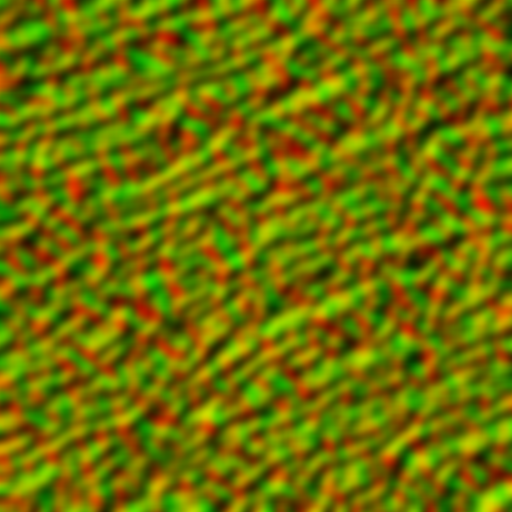
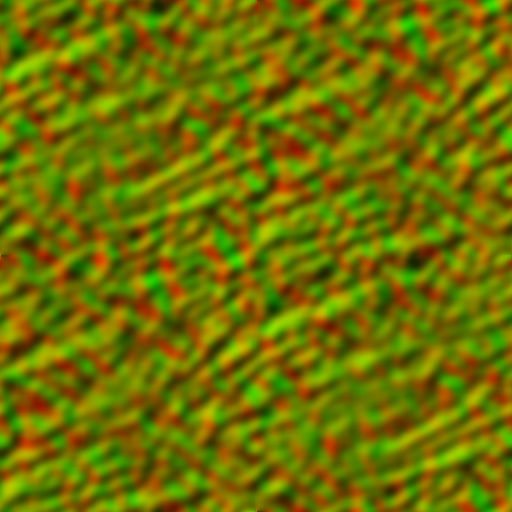
Add normal map , fix camera problem, finish water

diff --git a/src/Water/Water.cpp b/src/Water/Water.cpp
@@ -108,7 +108,12 @@ namespace CG
 		ReflectionTextureID = glGetUniformLocation(program, "reflectionTexture");
 		RefractionTextureID = glGetUniformLocation(program, "refractionTexture");
 		dudvMapID = glGetUniformLocation(program, "dudvMap");
+		normalID = glGetUniformLocation(program, "normalMap");
 		moveFactorID = glGetUniformLocation(program, "moveFactor");
+		cameraPositionID = glGetUniformLocation(program, "cameraPosition");
+		lightPosID = glGetUniformLocation(program, "lightPos");
+		enableWaveID = glGetUniformLocation(program, "enableWave");
+		enableLightReflectionID = glGetUniformLocation(program, "enableLightReflection");
 
 		//UBO
 		glGenBuffers(1, &UBO);
@@ -146,6 +151,30 @@ namespace CG
 			stbi_image_free(data);
 		}
 
+		path = "../../res/Water/normalMap.png";
+		data = stbi_load(path.c_str(), &width, &height, &nrChannels, STBI_rgb_alpha);
+		if (data)
+		{
+			std::cout << "load water texture: " << path << std::endl;
+			stbi_set_flip_vertically_on_load(false);
+
+			glGenTextures(1, &normalMapTexture);
+			glBindTexture(GL_TEXTURE_2D, normalMapTexture);
+			glTexParameteri(GL_TEXTURE_2D, GL_TEXTURE_MIN_FILTER, GL_NEAREST);
+			glTexParameteri(GL_TEXTURE_2D, GL_TEXTURE_MAG_FILTER, GL_NEAREST);
+			glTexParameteri(GL_TEXTURE_2D, GL_TEXTURE_WRAP_S, GL_MIRRORED_REPEAT);
+			glTexParameteri(GL_TEXTURE_2D, GL_TEXTURE_WRAP_T, GL_MIRRORED_REPEAT);
+
+			glTexImage2D(GL_TEXTURE_2D, 0, GL_RGBA, width, height, 0, GL_RGBA, GL_UNSIGNED_BYTE, data);
+
+			stbi_image_free(data);
+		}
+		else
+		{
+			std::cout << "Failed to load texture: " << path << std::endl;
+			stbi_image_free(data);
+		}
+
 		glGenBuffers(1, &VBO);
 		glBindBuffer(GL_ARRAY_BUFFER, VBO);
 		glBufferData(GL_ARRAY_BUFFER, sizeof(vertices), &vertices[0], GL_STATIC_DRAW);
@@ -159,7 +188,7 @@ namespace CG
 		return true;
 	}
 
-	void Water::Render(float camX, float camY, float camZ, float aspect, GLenum mode)
+	void Water::Render(float camX, float camY, float camZ, float aspect, GLenum mode, glm::vec3 LightPos, bool enableWave, bool enableLightReflection)
 	{
 		glPolygonMode(GL_FRONT_AND_BACK, mode);// mode = 0, fill
 
@@ -182,6 +211,11 @@ namespace CG
 
 
 		glUniform1f(moveFactorID, moveFactor);
+		glUniform3f(cameraPositionID, camX, camY, camZ);
+		glUniform3f(lightPosID, LightPos.x, LightPos.y, LightPos.z);
+
+		glUniform1i(enableWaveID, enableWave);
+		glUniform1i(enableLightReflectionID, enableLightReflection);
 
 		//bind reflectionTexture, refractionTexture
 		glActiveTexture(GL_TEXTURE5);
@@ -195,6 +229,10 @@ namespace CG
 		glActiveTexture(GL_TEXTURE7);
 		glBindTexture(GL_TEXTURE_2D, dudvMapTexture);
 		glUniform1i(dudvMapID, 7);
+
+		glActiveTexture(GL_TEXTURE8);
+		glBindTexture(GL_TEXTURE_2D, normalMapTexture);
+		glUniform1i(normalID, 8);
 
 
 		for (int i = 0; i < GRIDSIZE; ++i) {

diff --git a/src/Window/ControlWindow.cpp b/src/Window/ControlWindow.cpp
@@ -10,6 +10,7 @@ namespace CG
 	{
 		showDemoWindow = false;
 		showMtlWindow = false;
+		showWaterWindow = false;
 		keepMultipleActive = false;
 		previousKeepMultipleActive = keepMultipleActive;
 		showEffectWindow = false;
@@ -30,6 +31,8 @@ namespace CG
 			ImGui::Checkbox("Demo Window", &showDemoWindow);
 			ImGui::Checkbox("Material Setting Window", &showMtlWindow);
 			ImGui::Checkbox("Special Effects Setting Window", &showEffectWindow);
+			ImGui::Checkbox("Show Water", &showWaterWindow);
+			targetScene->SetWater(showWaterWindow);
 
 			ImGui::SetNextItemWidth(150);
 
@@ -106,6 +109,8 @@ namespace CG
 			DisplayMtl();
 		if (showEffectWindow)
 			DisplayEffect();
+		if (showWaterWindow)
+			DisplayWater();
 		DisplayEditor(controlPos, controlSize);
 		//ToggleInput(0, 0);
 		HandleInput();
@@ -184,6 +189,32 @@ namespace CG
 				else
 				{
 					targetScene->SetEffect(0, i, false);
+				}
+			}
+
+			ImGui::End();
+		}
+	}
+
+
+	void ControlWindow::DisplayWater() {
+		ImGui::Begin("Water");
+		{
+			int effectNum = 2;
+			std::vector<std::string> effectName = { "Wave", "Light Reflection"};
+			static std::map<std::string, bool> isActive;
+
+			for (int i = 0; i < effectNum; i++) {
+				ImGui::Checkbox(effectName[i].c_str(), &isActive[effectName[i]]);
+
+				ImGui::SetNextItemWidth(100);
+				if (isActive[effectName[i]])
+				{
+					targetScene->SetWaterEffect(i, true);
+				}
+				else
+				{
+					targetScene->SetWaterEffect(i, false);
 				}
 			}
 

diff --git a/src/Scene/MainScene.cpp b/src/Scene/MainScene.cpp
@@ -166,19 +166,13 @@ namespace CG
 			camera.SetAspect(aspect);
 		}
 		else if (cameraMode == CameraMode::reflection) {
-			float invertedPhi = -phi;
-
-			camX = eyedistance * cos(invertedPhi) * sin(theta);
-			camY = eyedistance * sin(invertedPhi);
-			camZ = eyedistance * cos(invertedPhi) * cos(theta);
-
 			float distance = camY - water->getHeight();
 			float reflectedCamY = camY - 2 * distance;
 			float targetY = 0;
 			float reflectedTargetY = targetY - 2 * (targetY - water->getHeight());
 			camera.LookAt(
 				glm::vec3(camX, reflectedCamY, camZ),          
-				glm::vec3(0, reflectedTargetY, 0),              
+				glm::vec3(0, reflectedTargetY, 0),
 				glm::vec3(0, 1, 0)                              
 			);
 			camera.SetAspect(aspect);
@@ -206,8 +200,8 @@ namespace CG
 		// ------------------------------
 
 		RenderMainScene(aspect, camX, camY, camZ, plane, false, depthCubemap, ModelID);
-		if (cameraMode == CameraMode::normal) {
-			water->Render(camX, camY, camZ, aspect, mode);
+		if (cameraMode == CameraMode::normal && enableWater) {
+			water->Render(camX, camY, camZ, aspect, mode, LightPos, enableWave, enableLightReflection);
 		}
 
 		if (enableToonShader) {

diff --git a/src/Water/Water.h b/src/Water/Water.h
@@ -15,7 +15,7 @@
 #include "./WaterFrameBuffer.h"
 #include <Scene/Camera.h>
 
-constexpr auto GRIDSIZE = 15;
+constexpr auto GRIDSIZE = 1;
 constexpr float WAVESPEED = 0.08f;
 
 namespace CG
@@ -24,7 +24,7 @@ namespace CG
 	{
 	public:
 		auto Initialize(WaterFrameBuffer& waterFrameBuffer) -> bool;
-		void Render(float camX, float camY, float camZ, float aspect, GLenum mode);
+		void Render(float camX, float camY, float camZ, float aspect, GLenum mode, glm::vec3 LightPos, bool enableWave, bool enableLightReflection);
 		void Update(double dt);
 		float getHeight() const { return height; }
 	private:
@@ -45,13 +45,19 @@ namespace CG
 		GLuint ReflectionTextureID;
 		GLuint RefractionTextureID;
 		GLuint dudvMapID;
+		GLuint normalID;
 		GLuint moveFactorID;
+		GLuint cameraPositionID;
+		GLuint lightPosID;
+		GLuint enableWaveID;
+		GLuint enableLightReflectionID;
 
 		std::vector <glm::mat4> Models;
 
 		std::vector<WaterTile> waterTiles;
 
 		GLuint dudvMapTexture;
+		GLuint normalMapTexture;
 
 		float height = -10.0f;
 		float moveFactor = 0;

diff --git a/src/Scene/MainScene.h b/src/Scene/MainScene.h
@@ -82,6 +82,20 @@ namespace CG
 		void SetEffect(float num, int effect, bool isActive);
 		void SetMtl(int partsNum, std::string material);
 
+		//Water funciton
+		void SetWater(bool isActive) {
+			enableWater = isActive;
+		}
+		void SetWaterEffect(int effect, bool isActive) {
+			if (effect == 0)
+			{
+				enableWave = isActive;
+			}
+			else {
+				enableLightReflection = isActive;
+			}
+		}
+
 	private:
 		auto LoadScene() -> bool;
 
@@ -211,6 +225,10 @@ namespace CG
 		std::map<std::string, float> effectTime;
 		bool isFirstAppear = true;
 		glm::vec3 LightPos = glm::vec3(0, 10, 50);
+
+		bool enableWater = false;
+		bool enableWave = false;
+		bool enableLightReflection = false;
 
 		enum Body
 		{

diff --git a/src/Window/ControlWindow.h b/src/Window/ControlWindow.h
@@ -18,6 +18,7 @@ namespace CG
 		void DisplayEditorItem(bool& isEdit, float curFrame, JsonIO::FrameData& curFD, JsonIO::Action& actionData);
 		void DisplayModleControl(bool& isEdit, float curFrame, JsonIO::FrameData& curFD);
 		void DisplayEffect();
+		void DisplayWater();
 		void SetActionData();
     
 		void HandleInput();
@@ -25,6 +26,7 @@ namespace CG
 	private:
 		bool showDemoWindow;
 		bool showMtlWindow;
+		bool showWaterWindow;
 
 		bool isKeyboardEnable;
 		bool keepMultipleActive;

diff --git a/src/Water/WaterTile.h b/src/Water/WaterTile.h
@@ -4,7 +4,7 @@ namespace CG
 {
     class WaterTile {
         public:
-            static constexpr float TILE_SIZE = 10.0f;
+            static constexpr float TILE_SIZE = 60.0f;
 
             WaterTile(float centerX, float centerZ, float height)
                 : x(centerX), z(centerZ), height(height) {}
